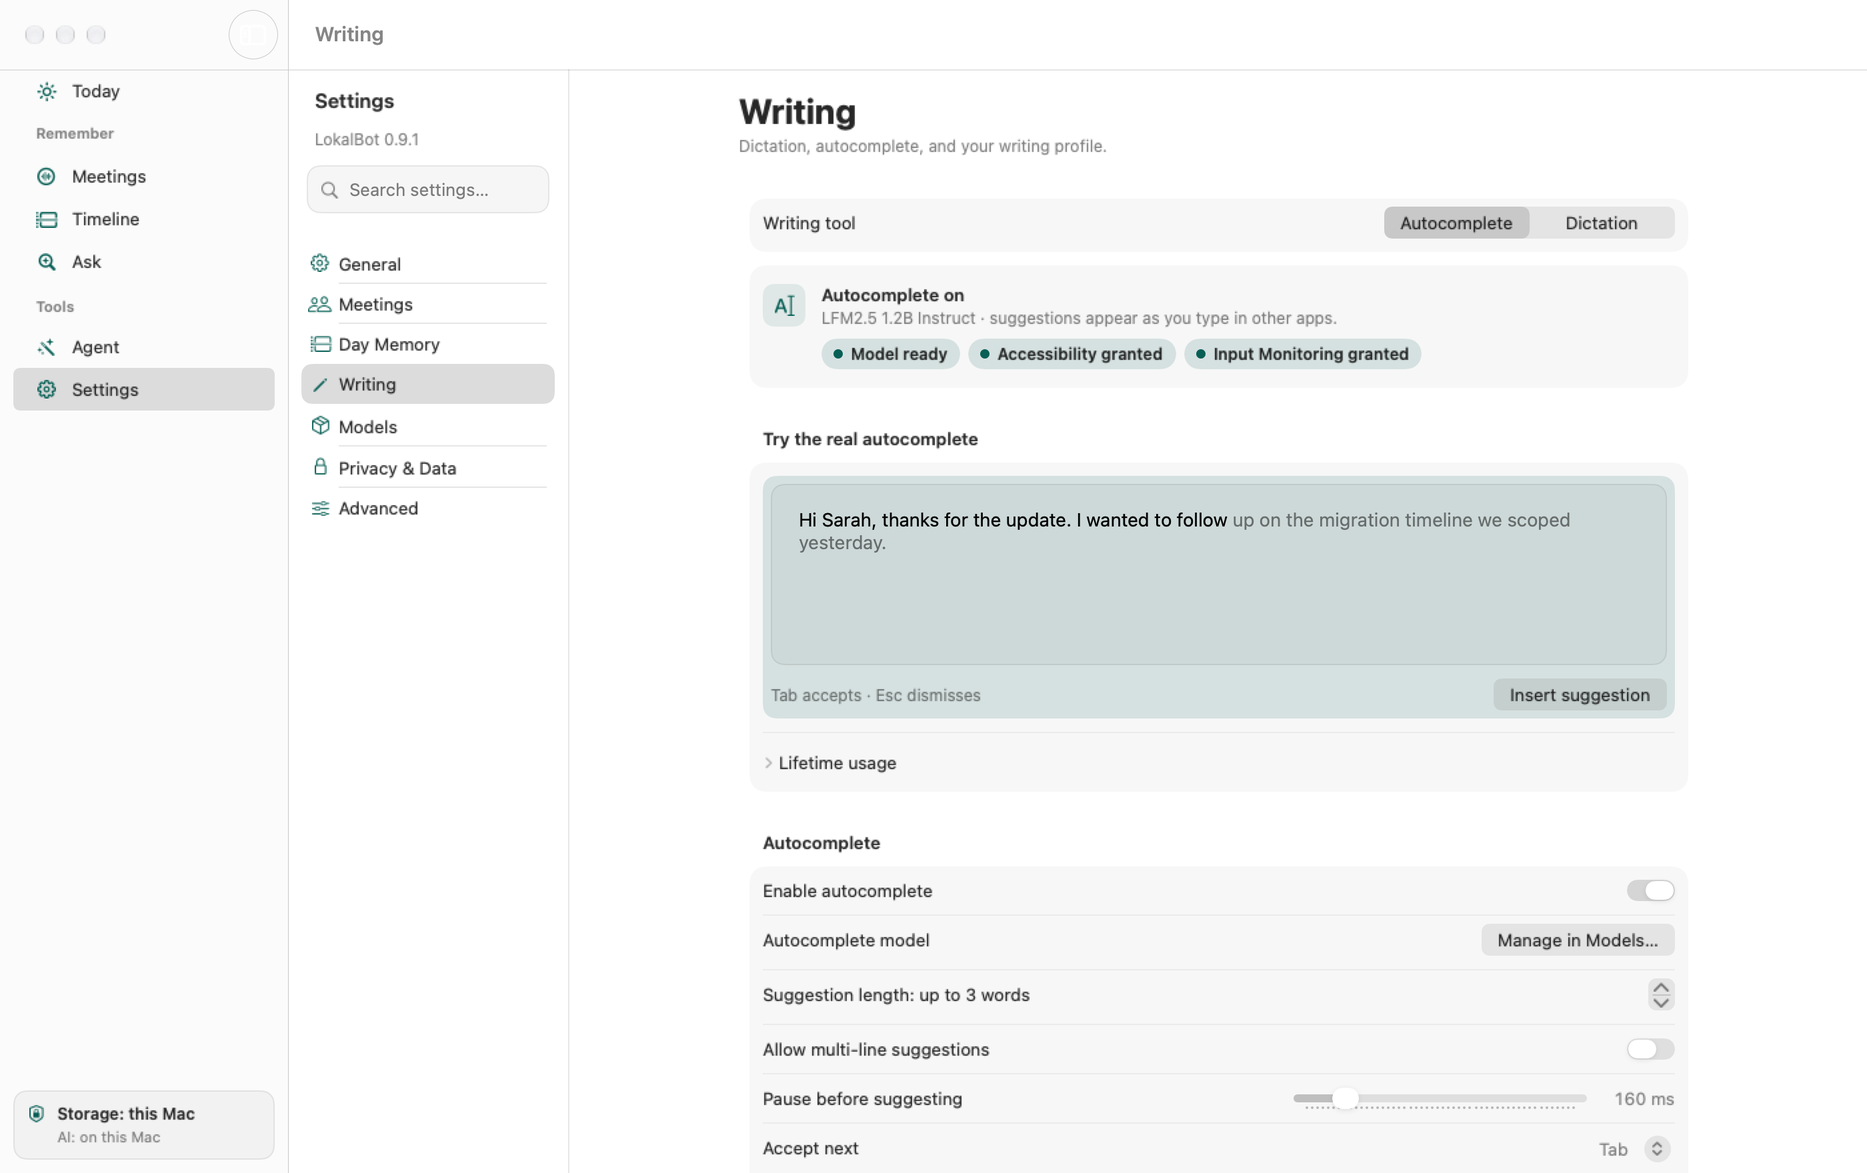
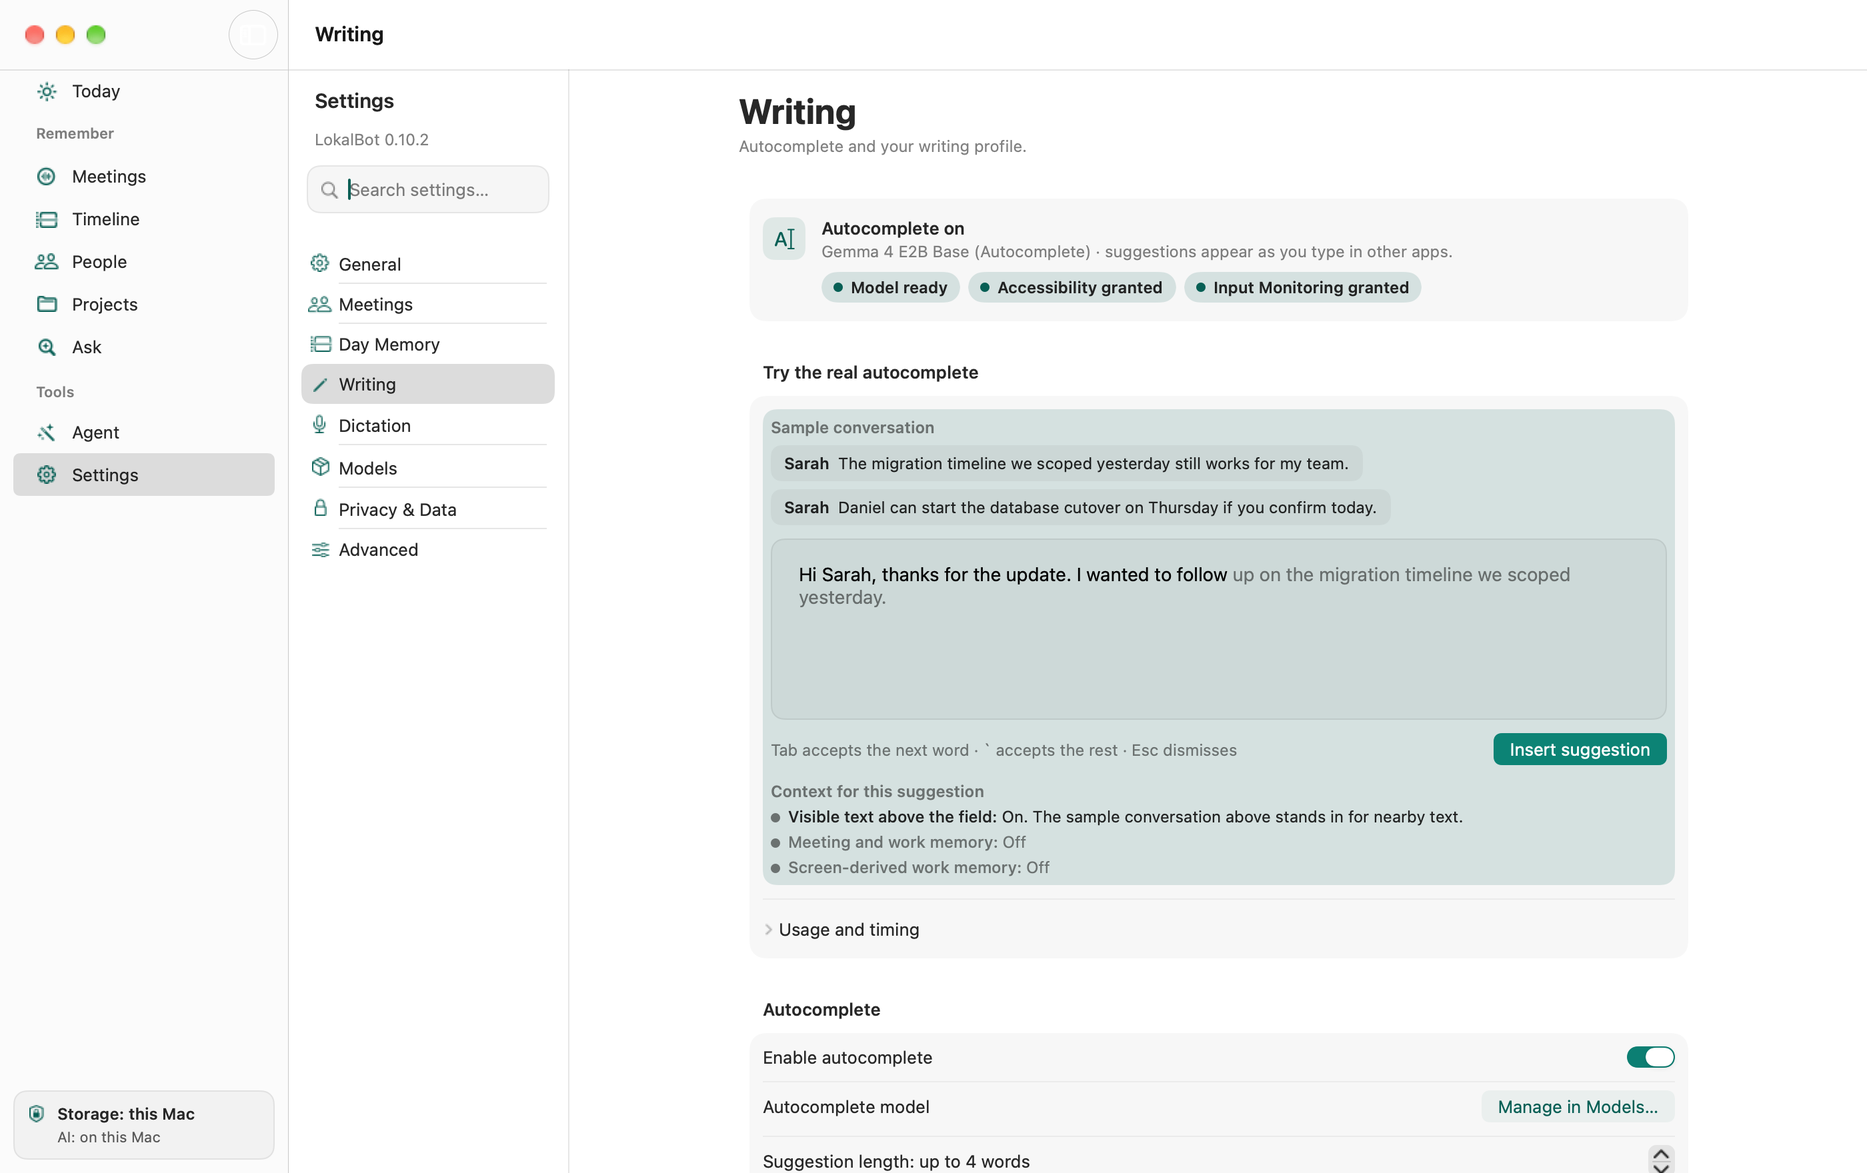
Refresh README screenshots from the studio library
The README's section screenshots still showed the Redis and Slack demo on the
0.9.x UI. Recapture all five from v0.10.2 with the studio profile, each on its
own example: the podcast trailer review (meeting), a "captions" search that
finds a Pages checklist (Quick Recall), the studio's day in Today and
Timeline, and the current Writing settings for Autocomplete.

The studio profile gains a full podcast trailer review with audio and a named
speaker, and two Ask conversations that cite its meetings, so
Scripts/capture-screenshots.sh can seed it instead of the Redis library. The
script now selects the podcast meeting, searches "captions" and "MacBook", and
picks GIF frames by the studio list order. Capture notes, the source manifest,
and the README alt text describe the new set.

diff --git a/Scripts/seed_demo_library.py b/Scripts/seed_demo_library.py
@@ -36,8 +36,11 @@ DESIGN_REVIEW = "11111111-1111-4111-8111-111111111111"
 STANDUP = "22222222-2222-4222-8222-222222222222"
 ROADMAP = "33333333-3333-4333-8333-333333333333"
 NORTHWIND = "44444444-4444-4444-8444-444444444444"
-# The studio profile's featured meeting, the one with playable audio.
+# The studio profile's featured meetings, the ones with playable audio: the
+# holiday shoot (website and README hero) and the podcast trailer review
+# (README meeting section).
 STUDIO_SHOOT = "55555555-5555-4555-8555-555555555555"
+STUDIO_PODCAST = "66666666-6666-4666-8666-666666666666"
 
 
 def mid(n):
@@ -745,9 +748,10 @@ def seed_large(root):
 def build_studio(now):
     """A small video studio's meetings: FaceTime calls and Apple apps instead of
     engineering work. Each captured surface gets its own topic: the holiday
-    shoot (meeting window), the Mac refresh ("MacBook" search) and delivery
-    captions ("captions" search). Keep "MacBook" and "captions" out of other
-    meetings so those searches return the intended rows."""
+    shoot (website meeting and README hero), the podcast trailer (README
+    meeting section), the Mac refresh ("MacBook" search) and delivery captions
+    ("captions" search). Keep "MacBook" and "captions" out of other meetings so
+    those searches return the intended rows."""
     def ago(days, hour, minute=0):
         base = now - timedelta(days=days)
         return base.replace(hour=hour, minute=minute, second=0, microsecond=0)
@@ -802,15 +806,25 @@ def build_studio(now):
           "## Action items\n- [ ] Finish the Northwind holiday cut — Me\n- [ ] Price two laptop configs for the edit suite — Me"),
 
         # ---- Yesterday ----
-        m(mid(23), "Podcast trailer review", "Google Meet", ago(1, 9, 57), 30, False,
+        m(STUDIO_PODCAST, "Podcast trailer review", "Google Meet", ago(1, 9, 57), 30, True,
           [
-              seg(0, 20, "me", "The podcast trailer is two weeks late. Let's fix the cut today."),
-              seg(20, 42, "them", "The intro music fights the voiceover. I'd duck it in Logic."),
-              seg(42, 60, "me", "Agreed. The trailer ships Friday."),
+              seg(0, 12, "me", "The podcast trailer is two weeks late. Let's fix the cut today."),
+              seg(12, 26, "them", "Agreed on a sixty-second cut. Open question: lead with the guest or the host?"),
+              seg(26, 38, "me", "I'll re-cut the intro in Logic by Friday."),
+              seg(38, 52, "them", "Please duck the music under the voiceover; it fights the first line."),
+              seg(52, 66, "me", "Fair. I'll check the mix on AirPods and on the studio monitors."),
+              seg(66, 82, "them", "While we're here: artwork. Does the square cover work as the trailer art?"),
+              seg(82, 96, "me", "It works. We reuse the episode art instead of designing a new one."),
+              seg(96, 110, "them", "Okay. Subtitles too? Half of the clips get watched on mute."),
+              seg(110, 124, "me", "Then we burn subtitles into the social clips and ship the trailer Friday."),
+              seg(124, 138, "them", "Ship it. Let's publish the trailer with Monday's episode."),
           ],
-          "## TL;DR\nThe podcast trailer ships Friday after ducking the intro music in Logic.\n\n"
-          "## Decisions\n- Duck the intro music under the voiceover.\n\n"
-          "## Action items\n- [ ] Re-export the trailer from Logic — Them"),
+          "## TL;DR\nThe podcast trailer becomes a sixty-second cut and ships Friday with the music under the voiceover.\n\n"
+          "## Decisions\n- A sixty-second trailer cut that reuses the episode artwork.\n"
+          "- Duck the music under the voiceover and check the mix on AirPods and studio monitors.\n\n"
+          "## Action items\n- [ ] Re-cut the trailer intro in Logic by Friday — Me\n"
+          "- [ ] Publish the trailer with Monday's episode — Them\n\n"
+          "## Open questions\n- Lead with the guest or the host?"),
 
         # ---- Earlier this week ----
         m(mid(24), "Client call - Northwind", "Microsoft Teams", ago(2, 9, 47), 40, True,
@@ -1120,21 +1134,85 @@ def seed_studio_activity(root):
     return len(shots)
 
 
+def seed_studio_chats(root, now):
+    """Two answered Ask conversations that cite the studio meetings."""
+    chats = os.path.join(root, "chats")
+    os.makedirs(chats, exist_ok=True)
+
+    def msg(mid_, role, text, activity=None):
+        out = {"id": mid_, "role": role, "text": text}
+        if activity:
+            out["activity"] = activity
+        return out
+
+    def act(aid, tool, icon, text):
+        return {"id": aid, "tool": tool, "icon": icon, "text": text, "done": True}
+
+    northwind = mid(24)
+    shoot = {
+        "id": "bbbbbbb1-0000-4000-8000-000000000001",
+        "title": "Holiday shoot plan",
+        "createdAt": iso(now - timedelta(minutes=9)),
+        "updatedAt": iso(now - timedelta(minutes=2)),
+        "messages": [
+            msg("bbbbbbb1-0000-4000-8000-000000000101", "user",
+                "What did we decide for the holiday shoot?"),
+            msg("bbbbbbb1-0000-4000-8000-000000000102", "assistant",
+                "Everything is shot on iPhone, stills and video, for one consistent look "
+                f"[meeting:{STUDIO_SHOOT}@0:12]. Footage moves by AirDrop for selects and on the shared SSD "
+                f"for full shoot days [meeting:{STUDIO_SHOOT}@1:22].\n\n"
+                f"You're booking the photo studio for Thursday morning [meeting:{STUDIO_SHOOT}@0:26], "
+                f"and Maya is sending the Freeform shot list to the crew tonight [meeting:{STUDIO_SHOOT}@0:38].",
+                activity=[
+                    act("bbbbbbb1-0000-4000-8000-000000000201", "search_meetings",
+                        "magnifyingglass", "searched meetings for “holiday shoot”"),
+                    act("bbbbbbb1-0000-4000-8000-000000000202", "get_meeting",
+                        "doc.text", "read “Holiday shoot planning”"),
+                ]),
+        ],
+    }
+    captions = {
+        "id": "bbbbbbb2-0000-4000-8000-000000000002",
+        "title": "Northwind captions",
+        "createdAt": iso(now - timedelta(days=1, hours=2)),
+        "updatedAt": iso(now - timedelta(days=1, hours=2)),
+        "messages": [
+            msg("bbbbbbb2-0000-4000-8000-000000000101", "user",
+                "What does Northwind need before the cut goes live?"),
+            msg("bbbbbbb2-0000-4000-8000-000000000102", "assistant",
+                "Captions. Their legal team won't put the cut on the site without them "
+                f"[meeting:{northwind}@0:00]. You promised a subtitled version this week "
+                f"[meeting:{northwind}@0:15], and they asked for a quote on three social cut-downs "
+                f"[meeting:{northwind}@0:30].",
+                activity=[
+                    act("bbbbbbb2-0000-4000-8000-000000000201", "search_meetings",
+                        "magnifyingglass", "searched meetings for “Northwind”"),
+                    act("bbbbbbb2-0000-4000-8000-000000000202", "get_meeting",
+                        "doc.text", "read “Client call - Northwind”"),
+                ]),
+        ],
+    }
+    for convo in (shoot, captions):
+        with open(os.path.join(chats, f"{convo['id']}.json"), "w") as f:
+            json.dump(convo, f, indent=2)
+
+
 def seed_studio(root):
     now = datetime.now(timezone.utc)
     meetings = build_studio(now)
+    speakers = {STUDIO_SHOOT: "Maya", STUDIO_PODCAST: "Leo"}
     for mm in meetings:
         folder = write_meeting(root, mm)
-        if mm["id"] != STUDIO_SHOOT:
+        if mm["id"] not in speakers:
             continue
         write_demo_audio(folder)
         write_demo_audio(folder, track="system", tone=247, beat=2.7, level=1_400)
         # A named speaker keeps the "speaker needs a name" prompt out of the
-        # featured meeting's summary.
+        # featured meetings' summaries.
         path = os.path.join(folder, "transcript.json")
         with open(path) as f:
             transcript = json.load(f)
-        transcript["speakerAliases"] = {"them": "Maya"}
+        transcript["speakerAliases"] = {"them": speakers[mm["id"]]}
         with open(path, "w") as f:
             json.dump(transcript, f, indent=2)
     journal = os.path.join(root, "journal")
@@ -1150,6 +1228,7 @@ The holiday shoot is all iPhone on Thursday, and the editors move to MacBook Pro
 - Request the business quote from Apple.
 - Deliver the captioned Northwind cut.
 """)
+    seed_studio_chats(root, now)
     moments = seed_studio_activity(root)
     return len(meetings), moments
 
@@ -1190,7 +1269,7 @@ def main():
         return
     if args.profile == "studio":
         meetings, moments = seed_studio(root)
-        print(f"Seeded studio library at {root} ({meetings} meetings, {moments} screen moments)")
+        print(f"Seeded studio library at {root} ({meetings} meetings, 2 chats, {moments} screen moments)")
         return
     now = datetime.now(timezone.utc)
     for mm in build(now):

diff --git a/Scripts/tests/test_seed_demo_library.py b/Scripts/tests/test_seed_demo_library.py
@@ -7,6 +7,7 @@ import importlib.util
 import json
 import os
 from pathlib import Path
+import re
 import sqlite3
 import subprocess
 import sys
@@ -141,11 +142,26 @@ class SeedProfileTests(unittest.TestCase):
             folders.setdefault(meta["title"], []).append(os.path.dirname(path))
         self.assertEqual(sum(map(len, folders.values())), 19)
 
+        ids = set()
+        for paths in folders.values():
+            for folder in paths:
+                with open(os.path.join(folder, "meta.json")) as f:
+                    ids.add(json.load(f)["id"])
+        chats = glob.glob(os.path.join(self.root, "chats/*.json"))
+        self.assertEqual(len(chats), 2)
+        for path in chats:
+            with open(path) as f:
+                cited = {match for message in json.load(f)["messages"]
+                         for match in re.findall(r"\[meeting:([0-9a-f-]+)@", message["text"])}
+            self.assertTrue(cited and cited <= ids, path)
+
         featured = folders["Holiday shoot planning"][0]
-        for track in ("mic.m4a", "system.m4a"):
-            self.assertTrue(os.path.exists(os.path.join(featured, track)), track)
-        with open(os.path.join(featured, "transcript.json")) as f:
-            self.assertEqual(json.load(f)["speakerAliases"], {"them": "Maya"})
+        for title, speaker in (("Holiday shoot planning", "Maya"), ("Podcast trailer review", "Leo")):
+            folder = folders[title][0]
+            for track in ("mic.m4a", "system.m4a"):
+                self.assertTrue(os.path.exists(os.path.join(folder, track)), (title, track))
+            with open(os.path.join(folder, "transcript.json")) as f:
+                self.assertEqual(json.load(f)["speakerAliases"], {"them": speaker})
 
         def meetings_saying(word):
             titles = set()

diff --git a/Assets/screenshots/README.md b/Assets/screenshots/README.md
@@ -1,44 +1,46 @@
 # README screenshots
 
 The five app screenshots used by the root [README](../../README.md) were captured
-on **September 28, 2026** in light appearance from `master`, commit
-[`769068eab523eb158d74c4657d29934287a336bf`](https://github.com/stevyhacker/lokalbot/tree/769068eab523eb158d74c4657d29934287a336bf),
-plus the capture fixes described below.
+on **October 9, 2026** in light appearance from the `v0.10.2` release commit
+[`1ade074a90510866d8909dc17e2e1dde372831b7`](https://github.com/stevyhacker/lokalbot/tree/1ade074a90510866d8909dc17e2e1dde372831b7)
+(build 46).
 
 | File | Surface |
 | --- | --- |
-| [quick-recall.png](quick-recall.png) | Redis results from saved screen context and meeting transcripts |
-| [meetings-summary.png](meetings-summary.png) | Meeting overview with recap, actions, decisions, and source citations |
+| [quick-recall.png](quick-recall.png) | "captions" results from a Pages checklist seen on screen and from meeting transcripts |
+| [meetings-summary.png](meetings-summary.png) | Podcast trailer review with recap, actions, decisions, and source citations |
 | [today.png](today.png) | Items needing attention and the day digest |
 | [timeline.png](timeline.png) | Day overview, digest, open items, and work sessions |
 | [cotyping.png](cotyping.png) | Settings → Writing with the Autocomplete preview and rehearsal |
 
 These are unedited captures of the native SwiftUI views, with fictional content
-from `Scripts/seed_demo_library.py`. They are not composited product mockups.
-The isolated capture host suppresses background capture and inference; displayed
-transcripts, summaries, suggestions, and permission states are fixture data.
-The images show the interface, not proof of live recording or model performance.
+from `Scripts/seed_demo_library.py --profile studio`: a small video studio's
+calls and Apple apps, with a different example in each frame. They are not
+composited product mockups. The isolated capture host suppresses background
+capture and inference; displayed transcripts, summaries, suggestions, and
+permission states are fixture data. The images show the interface, not proof
+of live recording or model performance. The README's hero image is a separate
+composite described in [Assets/hero/README.md](../hero/README.md).
 
-The capture ran `Scripts/capture-screenshots.sh --stills-only` in a temporary
-`git archive` of the commit above, with two later edits applied: the script's
-light default and the scripted-capture sidebar selection in
-`LokalBot/Views/MainWindowView.swift`. Prebuilt native runtimes were copied
-into its `Vendor/` directory. It had its own storage root, UserDefaults suite,
-and DerivedData. No production app or user library was used, and no UI tests
-were run.
+The LokalBot UI Test Host was built from the commit above with
+`CODE_SIGNING_ALLOWED=NO` into its own DerivedData. Each frame used the
+per-frame settings that `Scripts/capture-screenshots.sh --stills-only` uses at
+this revision, run one frame at a time against one seeded library instead of
+through the whole script. The Autocomplete frame came from an earlier pass a
+few minutes before, with the same build and profile; it does not show library
+content. Each run had its own storage root and UserDefaults suite. No
+production app or user library was used, and no UI tests were run.
 
 Main windows were rendered at 1400 × 880 points and 2× density. Quick Recall
 used a 660 × 480 point window, producing a 1320 × 1024 PNG. Appearance was
 pinned to light, the script's default. All five frames were visually reviewed;
 [readme.source.json](readme.source.json) records dimensions and hashes.
 
-`cacheDisplay` cannot draw some native selection materials. The selected
-toolbar segment in `meetings-summary.png` renders as a blank white pill. The
-native sidebar highlight renders solid black, so scripted captures draw the
-selected row in AppKit's unemphasized selection color instead. The host did not
-take focus from the app in front, so the window chrome and switches show the
-inactive appearance: gray traffic lights, and a gray track on the enabled
-Autocomplete switch. Judge those controls in a live window.
+In 0.10.2, `cacheDisplay` draws the selected toolbar segment correctly. It
+still renders the native sidebar highlight solid black, so scripted captures
+draw the selected row in AppKit's unemphasized selection color instead. The
+host came to the front for these captures, so window chrome and switches show
+the active appearance.
 
 The README no longer shows [models.png](models.png). The isolated host has no
 downloaded models, so a fresh Models capture shows "Download required" on every
@@ -55,7 +57,8 @@ the promise, and the default local models by name. The last 30 seconds are
 recordings of the native app from `master` at
 [`769068e`](https://github.com/stevyhacker/lokalbot/tree/769068e), made on
 September 28, 2026 in light appearance and driven by real input events in the
-isolated UI test host, with the same fictional seed library as these stills.
+isolated UI test host, with the default fictional library from
+`Scripts/seed_demo_library.py`, not the studio profile these stills now use.
 Cursor, click ripples, headlines and model chips are editorial overlays; screen
 pixels are unchanged. The footage shows the interface and navigation, not live
 transcription or model inference. The narration is synthetic (ElevenLabs

diff --git a/Assets/hero/README.md b/Assets/hero/README.md
@@ -16,15 +16,16 @@ not used, and no UI tests were run.
 
 | Image | Meeting window | Quick Recall |
 | --- | --- | --- |
-| light | "Holiday shoot planning" from `Scripts/seed_demo_library.py --profile studio` | "MacBook" in the same library |
-| dark | "Customer call - Northwind" from the default demo library (`LOKALBOT_SELECT_INDEX=4`), with the Design review's demo audio copied in as its `mic.m4a` and `system.m4a` and `"speakerAliases": {"them": "Dana"}` added to its `transcript.json` | "Redis" in the same library |
+| light | "Holiday shoot planning" from `Scripts/seed_demo_library.py --profile studio` | a "MacBook" search, same profile |
+| dark | "Customer call - Northwind" from the default demo library (`LOKALBOT_SELECT_INDEX=4`), with the Design review's demo audio copied in as its `mic.m4a` and `system.m4a` and `"speakerAliases": {"them": "Dana"}` added to its `transcript.json` | a "Redis" search, default library |
 
 Meeting windows used `LOKALBOT_CAPTURE_SIZE=1400x880` at 2×; Quick Recall used
-`660x512` with `LOKALBOT_CAPTURE_SCALE=4`. The light pair came from a working
-copy of the studio profile that pinned today's meetings to fixed clock times.
-The committed profile anchors them to the current time, so a fresh capture
-differs only in the times shown. In each image the meeting and search
-captures came from one library, so their times agree.
+`660x512` with `LOKALBOT_CAPTURE_SCALE=4`. Within each image, the two
+captures came from separately seeded libraries; the second pinned today's
+meetings to the clock times the first showed, so the times agree. The light
+pair predates the committed studio profile, which anchors today's meetings to
+the current time and later gained a fuller podcast trailer review with audio,
+so a fresh capture differs in the times shown and in that meeting's list entry.
 
 Compose a hero from two captures (requires Google Chrome):
 

diff --git a/Docs/screenshot-kit.md b/Docs/screenshot-kit.md
@@ -37,7 +37,10 @@ library (seen on October 9, 2026). After a run, search the library's
 - **Appearance:** light, pinned by the capture host rather than inherited from the
   current macOS appearance. Set `LOKALBOT_CAPTURE_APPEARANCE=dark` for a dark set.
 - **Content:** English synthetic meetings, outcomes, work sessions, chats, and
-  screen moments generated by `Scripts/seed_demo_library.py`.
+  screen moments generated by `Scripts/seed_demo_library.py --profile studio`:
+  a small video studio's calls and Apple apps. The frames show different
+  examples: the podcast trailer review (meeting, studio list index 3),
+  a "captions" search (Quick Recall), and a "MacBook" search (Ask search).
 - **Replacement safety:** the full set is staged in a temporary directory. The
   committed images are replaced only after every PNG is complete and the
   summary/transcript duplicate-frame check passes.

diff --git a/README.md b/README.md
@@ -47,7 +47,7 @@ Record microphone and meeting-app audio without a bot joining. Get local transcr
 
 One search across your meeting transcripts and, if you turn it on, what you saw on screen. Search by keyword or by meaning, then open the matching passage or screen moment instead of hunting through apps.
 
-<div align="center"><a href="Assets/screenshots/quick-recall.png"><img src="Assets/screenshots/quick-recall.png" alt="Quick Recall finding a Redis discussion across meeting transcripts and saved Slack and browser context" width="560" /></a></div>
+<div align="center"><a href="Assets/screenshots/quick-recall.png"><img src="Assets/screenshots/quick-recall.png" alt="Quick Recall finding a delivery checklist seen in Pages and three meetings where captions came up" width="560" /></a></div>
 
 ### Pick up where you left off
 
